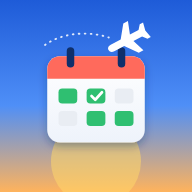
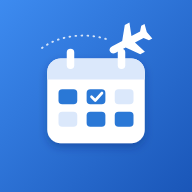
Icono en blanco y azul, los colores de DíasLibres
Claude-Session: https://claude.ai/code/session_01TPryHUnQo1oDXviMSv6T9a

diff --git a/public/sw.js b/public/sw.js
@@ -1,6 +1,6 @@
 // DíasLibres: la web se puede instalar como app. Siempre se pide la versión nueva y,
 // sin conexión, se muestra la última guardada. Los precios y reservas (/api) nunca se guardan.
-const CACHE = 'diaslibres-v2';
+const CACHE = 'diaslibres-v3';
 const SHELL = ['/', '/styles.css', '/app.js', '/manifest.webmanifest', '/icon-192.png'];
 
 self.addEventListener('install', (e) => {
